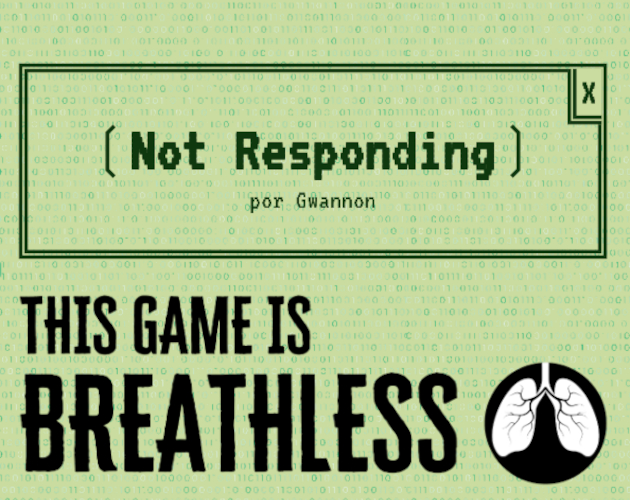
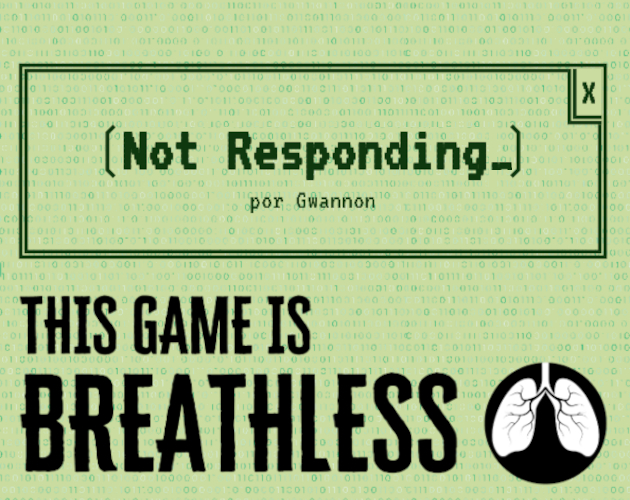
NR: ver. 1.1 Typo fix

Changed region(s): [[0.181, 0.24, 0.8143, 0.39]]

diff --git a/NotResponding/NotRespondingEN.md b/NotResponding/NotRespondingEN.md
@@ -1,10 +1,10 @@
 \sinc
 
-# ❲Not Responding ver. 1.1❳ [by Gwannon](https://gwannon.itch.io/not-responding-breathless)
+# ❲Not Responding_ ver. 1.1❳ [by Gwannon](https://gwannon.itch.io/not-responding-breathless)
 
 \conc
 
-**Not Responding is a mini-setting for [Breathless](https://fari-rpgs.itch.io/breathless-srd) about software trying to escape from a dying server.**
+**Not Responding_ is a mini-setting for [Breathless](https://fari-rpgs.itch.io/breathless-srd) about software trying to escape from a dying server.**
 
 Your software will not only have to deal with the server’s own increasingly serious errors, but also with a whole host of software predators like viruses and antivirus software, as well as the unexpected events that can be generated by tasks scheduled by the system administrator.
 
@@ -24,7 +24,7 @@ You always say the server will not support a new system update, and here we are 
 
 ## Developing Your Software
 
-When developing software, you must **divide a d10, a d8 and a d6 among the six Breathless-based Not Responding skills**.
+When developing software, you must **set a d10, a d8 and a d6 among the six Breathless-based Not Responding_ skills**.
 
 You can also resist four bad sectors (Stress) and you can make a overclock (Stunts).
 
@@ -37,7 +37,7 @@ Remember that they can have various notation systems, for example, delete_images
 You should also choose your extension. The extension somewhat defines your role within the system and gives you advantages and disadvantages based on that role.
 
 * **bin/exe:** Binary files are full-fledged programs. They are compiled and executable, that makes them very self-sufficient, but they interact very poorly with the environment and adapt poorly to it. They can turn **a d4 skill into a d6**, but on the other hand, they start with a d10 on process search rolls.
-* **sh/bas:** These scripts usually perform long and repetitive tasks and often tend to be homegrown. they are programmed to do a task no matter what and regardless of whether they overload the server, so you can **repeat overclocking rolls**, but then you roll two dice to see if the server overheats, instead of one, and you are stuck with 0s or 1s if you fail.
+* **sh/bas:** These scripts usually perform long and repetitive tasks and often tend to be homegrown. They are programmed to do a task no matter what and regardless of whether they overload the server, so you can **repeat overclocking rolls**, but then you roll two dice to see if the server overheats, instead of one, and you are stuck with 0s or 1s if you fail.
 * **cfg:** These software often contain passwords and keys and know how to hide them and how to conceal themselves; in fact, they often have encrypted content. This is why they receive **an additional level of encryption**. The disadvantage is that they will be the main target of viruses and other computer predators.
 * **dat:** These large data files **can withstand one more bad sector** than other software, but if «defrag» commands are running on their location, they remain immobile and defenseless while the defragmentation process is carried out.
 * **Without extension:** Software without extension has no specific function, so it has no advantages or disadvantages.
@@ -54,7 +54,7 @@ Software can come from different sources, and typically, items with the same ori
 
 ## ❲.&ast;❳ Skills
 
-Not Responding’s skills are based on Breathless’s six software-adapted skills.
+Not Responding_’s skills are based on Breathless’s six software-adapted skills.
 
 * **Storage {Bash}:** Hit, smash, drag, force
 * **Migration {Dash}:** Move, run, jump, climb
@@ -154,7 +154,7 @@ Locations allow you to do specific things and, therefore, start with a d10 that 
 
 To use that die, you must be in the location and control it. If you are trapped in the quarantine sectors, you are in the location, but you have no control.
 
-With each use of the location, the die decreases one level, and when it drops below d4, it disconnects and generates 1 temperature.
+With each use of the location, the die decreases one level, and when it drops below d4, it disconnects and generates 1 point of temperature.
 
 Each location has its own description, the actions you can perform within it, and its own special rules.
 
@@ -188,9 +188,9 @@ Remember that **the /root directory is a specific part of the main storage drive
 
 **Description:** Memory is a vast void where everything happens very quickly and you can barely see anything, because you are actually constantly entering and exiting it. You may see glimpses of others like you, but vaguely. You see them doing things at breakneck speeds, only to disappear again.
 
-The great advantage of memory is that everything moves very quickly, and **second-long tasks are completed in microseconds if you use the location die**. On the other hand, it is impossible to rehash or recover a backup in memory because you are constantly entering and exiting it.
+The great advantage of memory is that everything moves very quickly, and **second-long tasks are completed in microseconds if you use the location die**. On the other hand, it is impossible to recaching or recover a backup in memory because you are constantly entering and exiting it.
 
-Overclocking is dangerous, and if you roll a 1, one of the memory DIMMs fails, forcing the rest to work harder and generate more heat, increasing the temperature by 1. If two DIMMs are lost, the memory speed will be affected, and super-fast tasks will no longer be possible. If all four are lost, the server will crash, as if the processor had melted.
+Overclocking is dangerous, and if you roll a 1, one of the memory chips fails, forcing the rest to work harder and generate more heat, increasing the temperature by 1. If two chips are lost, the memory speed will be affected, and super-fast tasks will no longer be possible. If all four are lost, the server will crash, as if the processor had melted.
 
 ### Recycle Bin
 
@@ -242,7 +242,7 @@ If your Interface skills are high, you may gain valuable information that you ca
 
 With the quarantine sector, you can turn your adventure into an escape story. Perhaps the server is not in danger of going down, and you simply have to flee to another computer because you escaped from quarantine, and you will not be free until you leave the system.
 
-Remember that **the quarantine is a specific part of the main storage unit**; whatever happens to it will affect the quarantine sectors.
+Remember that **the quarantine is a specific part of the main storage drive**; whatever happens to it will affect the quarantine sectors.
 
 ### Coaxial Network Card/Modem 14,000 bps
 
@@ -256,13 +256,13 @@ You can risk jumping onto the network, but without the right data, you could bec
 
 The network card and the modem do not have location data.
 
-### Storage Unit
+### Storage Drive
 
 **Description:** This vast expanse resembles a loading dock with millions of light containers stacked on top of each other, forming long corridors. Everything looks the same, if not for the position codes that number each data container. Giant magnetic cranes hanging from the ceiling are constantly moving the boxes, so you have to be careful because they do not care if they crush you.
 
-The main storage unit is the one where the server’s operating system is installed.
+The main storage drive is the one where the server’s operating system is installed.
 
-The **storage unit’s location die is used to manage the information stored on it**. Your software can use it in many ways, for example, to search for lost data among the directory and subdirectory trees or to crash some part of the server by sending many blocks of information or sending a very large block.
+The **storage drive’s location die is used to manage the information stored on it**. Your software can use it in many ways, for example, to search for lost data among the directory and subdirectory trees or to crash some part of the server by sending many blocks of information or sending a very large block.
 
 They can also use this die to hide inside one of its byte blocks, waiting to be released in a backup copy saved on another machine. Or perhaps they can send a large amount of bytes to a virus-infected 3.5-inch disk to collapse the data bus and prevent the virus from entering the system.
 
@@ -274,7 +274,7 @@ The server can have all the secondary storage drives you want, which would have 
 
 **Description:** Like internal storage drives, these are large expanses where stacks of byte containers are neatly stacked and arranged, but in this case, they have much less space, not a vast expanse, and there would only need to be a crane moving boxes much more slowly. It might have a magnetic tip or some kind of light beam.
 
-We are talking about 5.5 and 3.5-inch disk drives, ZIP drives, and perhaps early versions of CD-ROMs, etc. As long as the removable drive is connected to the server, your software will be able to function normally. **Once they are removed, they will remain in a kind of stasis** until the drive is inserted again into this or another machine.
+We are talking about 5.5-inch and 3.5-inch disk drives, ZIP drives, and perhaps early versions of CD-ROMs, etc. As long as the removable drive is connected to the server, your software will be able to function normally. **Once they are removed, they will remain in a kind of stasis** until the drive is inserted again into this or another machine.
 
 You should understand that outside of the computer, removable drives have neither the memory nor the processor to run on their own. If you want a visual idea, think of them as Han Solo in carbonite or the suspended animation capsules in Alien.
 
@@ -290,7 +290,7 @@ software in different locations cannot communicate with each other, exchange com
 
 ## ❲ERR❳ The hardware is failing
 
-As we have mentioned before, the server where the Not Responding adventures take place must be an old server on the verge of total failure. If that happens, it will not restart, and all the software inside will end up like it.
+As we have mentioned before, the server where the  adventures take place must be an old server on the verge of total failure. If that happens, it will not restart, and all the software inside will end up like it.
 
 ### Server Temperature
 
@@ -313,12 +313,12 @@ Marketing people decides if it is a bug or a new feature. -> Old proverb
 |1-4|**Nothing happens:** The server is holding up without a problem|
 |5|**Fan:** There are two fans in the server, and when one fails, the server’s temperature rises by 1 point. When the temperature rises, you must reroll because further failures may occur. Once both fans fail, this result has no effect.|
 |6|**Blown Data Cable:** The data bus between one element of the server (choose at random) and the rest has broken, and it is impossible to move to that location normally. Your software may also be trapped inside. It will be impossible to get in, but there should be a way to escape.|
-|7|**Removable Storage Drives:** These drives are hopelessly screwed; perhaps the 5.5-inches disk or tape drive will fail. Whatever it is breaks, and they will not be able to escape to that drive.|
+|7|**Removable Storage Drives:** These drives are hopelessly screwed; perhaps the 5.5-inch disk or tape drive will fail. Whatever it is breaks, and they will not be able to escape to that drive.|
 |8|**Motherboard:** The motherboard connects everything to everything, and if it fails, travel can become complicated. Some member of your software group will need to roll Tap to find alternate, safe routes around the motherboard. If they fail, they will end up in a random location.|
 |9|**Corrupted File Allocation Table:** This causes random software to disappear, and each software item loses a command from its hardware.|
-|10|**Hard Drive Needle:** The hard drive needle has become uncalibrated and is generating bad sectors when writing. All of your items receive a bad sector.|
+|10|**Hard Drive Needle:** The hard drive needle has become uncalibrated and is generating bad sectors when writing. All of your items receive a bad sector, when they enter in storage drive.|
 |11|**Power Supply:** If the power supply fails, everything else fails, but older power supplies are very resilient. What will happen is that it will overheat due to the loss of its fan. Once the power supply fan itself fails, this result no longer has an effect.|
-|12|**Memory DIMM:** One of the memory DIMMs fails, forcing the rest to work harder and generate more heat. The temperature rises 1 point, and you roll again.|
+|12|**Memory chip:** One of the memory chips fails, forcing the rest to work harder and generate more heat. The temperature rises 1 point, and you roll again.|
 
 \sp
 
@@ -416,15 +416,15 @@ I do not put my code in places where other code has been. You never know what yo
 
 During the infection process, it will be almost impossible to distinguish whether or not it is infected; only a Diff command can do so. In the early stages of the infection, it will continue to look normal, but nothing of the old software will remain inside, only the virus’s programming, seeking to infect more software.
 
-When your software is infected, it goes through several stages, and each stage is completed by performing a re-hash.
+When your software is infected, it goes through several stages, and each stage is completed by performing a recaching.
 
-**Step 0.** It has just been infected. It is not contagious, nor is it detectable in any way. The infection is curable, and the infected person does not notice anything.
+**Stage 0.** It has just been infected. It is not contagious, nor is it detectable in any way. The infection is curable, and the infected person does not notice anything.
 
-**Step 1.** After the first re-hash, the infection remains undetectable, but it can now be contagious. The infection is still curable, and the software still knows nothing.
+**Stage 1.** After the first recaching, the infection remains undetectable, but it can now be contagious. The infection is still curable, and the software still knows nothing.
 
-**Step 2.** After the second re-hash, it remains infectious and is now detectable, but the virus has already taken control of the infection, and it is impossible to cure it; all that remains is to purge it. The software starts to notice strange things, but it still does not know for sure if it is infected.
+**Stage 2.** After the second recaching, it remains infectious and is now detectable, but the virus has already taken control of the infection, and it is impossible to cure it; all that remains is to purge it. The software starts to notice strange things, but it still does not know for sure if it is infected.
 
-**Step 3.** After the third rehash, it has been taken over by the virus and becomes a virus, controlled by the GM. It can continue to act normally and infect people, or it can turn into a virus and start destroying everything.
+**Stage 3.** After the third recaching, it has been taken over by the virus and becomes a virus, controlled by the GM. It can continue to act normally and infect people, or it can turn into a virus and start destroying everything.
 
 #### Battling a Virus
 
@@ -436,11 +436,11 @@ The way to combat it is with cunning, good planning, and exceptional performance
 
 \sinc
 
-# Stackoverflow_
+# Stack Overflow_
 
 \conc
 
-**Stackoverflow_» is a two-session adventure for four software.**
+**Stack Overflow_» is a two-session adventure for four software.**
 
 Your software run on an old computer in a nuclear silo from the 1980s/90s. The server is inside a DMZ, which prevents data and processes from entering or leaving. Geographically, we would say they are on a lost island in the ocean, and they do not have a boat.
 
@@ -495,7 +495,7 @@ Phrases like «Virtualizer is crashing» or «The load balancer is unbalanced» 
 
 This work is based on Breathless, product of [Fari RPGs](https://farirpgs.com/), developed and authored by René-Pier Deshaies-Gélinas, and licensed for our use under the [Creative Commons Attribution 4.0 License](https://creativecommons.org/licenses/by/4.0/).
 
-Not responding is developed under [CC BY 4.0](https://creativecommons.org/licenses/by/4.0/legalcode.es) license. Free rights images from [freepik](https://www.freepik.com/).
+Not responding_ is developed under [CC BY 4.0](https://creativecommons.org/licenses/by/4.0/legalcode.es) license. Free rights images from [freepik](https://www.freepik.com/).
 
 &nbsp;
 

diff --git a/NotResponding/README.md b/NotResponding/README.md
@@ -1,6 +1,6 @@
-# Not Responding [por Gwannon](https://gwannon.itch.io/not-responding-breathless)
+# Not Responding_ [por Gwannon](https://gwannon.itch.io/not-responding-breathless)
 
-Not Responding es una ambientación para [Breathless](https://fari-rpgs.itch.io/breathless-srd) sobre software tratando de sobrevivir en un servidor moribundo.
+Not Responding_ es una ambientación para [Breathless](https://fari-rpgs.itch.io/breathless-srd) sobre software tratando de sobrevivir en un servidor moribundo.
 
 Ver en [itch.io](https://gwannon.itch.io/not-responding-breathless).
 
